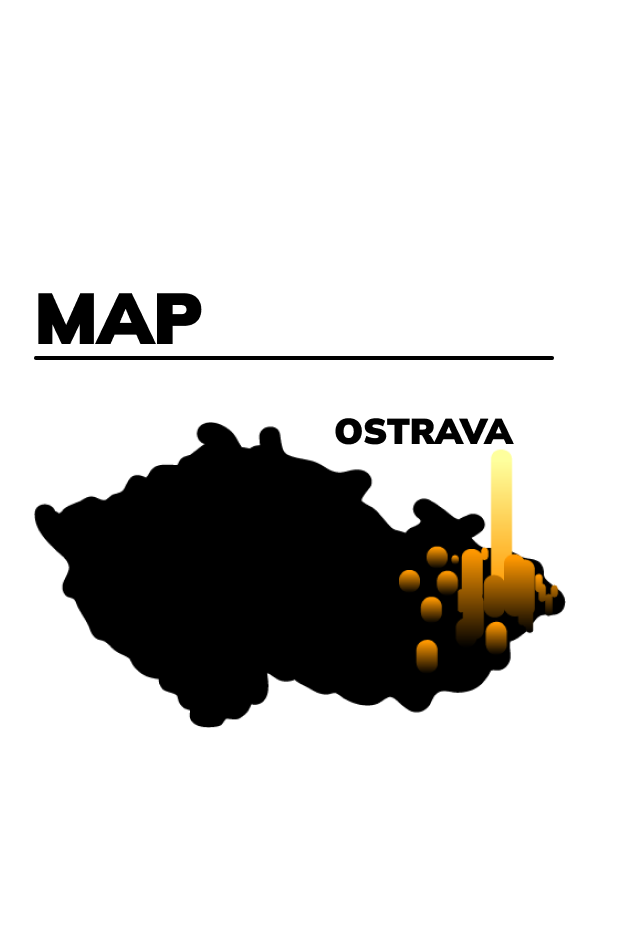
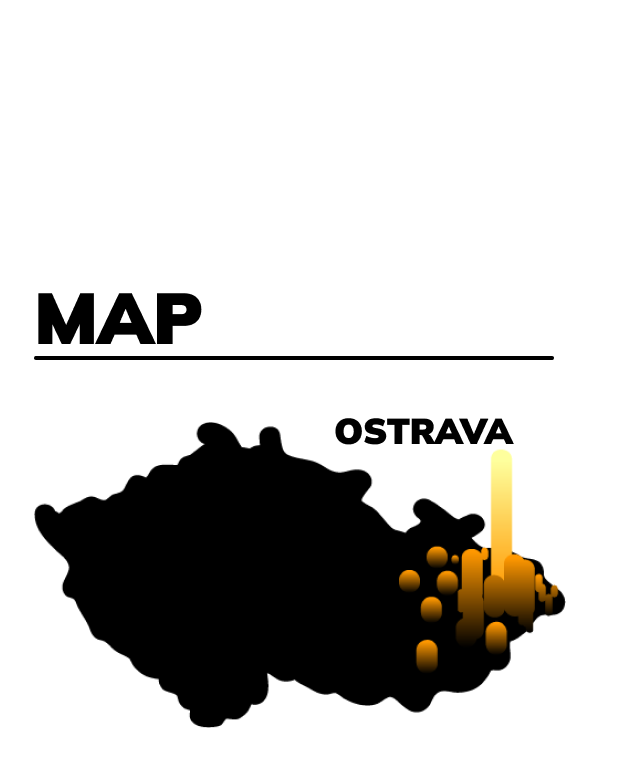
final commit

Changed region(s): [[0.0306, 0.3125, 0.9194, 0.9688]]

diff --git a/style.css b/style.css
@@ -2,9 +2,10 @@ body{
     font-family: 'Mulish', sans-serif;
     text-transform: uppercase;
     background: rgba(243, 203, 80, 1);
+    background-image: image();
 }
-#logo{height:25%;
-width:25%;}
+#logo{height:20%;
+width:20%;}
 .header{
     place-items:center;
    margin-top: 0,5cm;
@@ -47,23 +48,28 @@ text-align: center;
     width: 60%;
     height: 60%;
     left: 330px;
-    top: 260px;
+    top: 200px;
     display: none;
 }
+.title{position: absolute;
+    height: 400px;
+    left: 640px;
+    top: 790px;
+font-size: 250%;}
 .line{border: 17px solid #FFFFFF;
     position: absolute;
     width: 275px;
     height: 0px;
     left: 178.5px;
-    top: 450px;
+    top: 440px;
 border-radius: 20px;
 }
 .mask{  
     position: absolute;
     width: 325px;
-    height: 50%;
+    height: 400px;
     left: 180px;
-    top: 370px;
+    top: 350px;
     transition: all 0.75s;
 opacity:0%;}
 .mask:hover{
@@ -74,7 +80,7 @@ position: absolute;
 width: 275px;
 height: 0px;
 left: 1232px;
-top: 450px;
+top: 440px;
 border: 17px solid #FFFFFF;
 border-radius: 20px;}
 .linee{position: absolute;
@@ -96,7 +102,7 @@ border-radius: 20px;}
         width: 45%;
         height: 90%;
         left: 923px;
-        top: 2700px;}
+        top: 2600px;}
 .artist{   position: absolute;
     left: 770px;
     top: 1030px;
@@ -217,9 +223,9 @@ section {
 .blockb{
 position: absolute;
 width: 100%;
-height: 925px;
+height: 1000px;
 left: 0px;
-top: 2600px;
+top: 2500px;
 background: rgb(255, 255, 255);
 z-index:-1;
 }
@@ -260,13 +266,13 @@ p{position: absolute;
     width: 580px;
     height: 400px;
     left: 130px;
-    top: 3100px;}
+    top: 3000px;}
 .Ostrava{position: absolute;
     font-size:300%;
     left: 130px;
-    top: 2950px;}
+    top: 2850px;}
     .mostrear2 {position: absolute;
 width: 926px;
 height: 1417px;
 left: 100px;
-top: 2670px;}
+top: 2570px;}

diff --git a/index.html b/index.html
@@ -18,6 +18,7 @@
     <a href="">CONTACT</a>
 </header>
 <body onload="load_js()">
+        <h1 class="title">Colors<span style="color: white;font-weight: 100;">of</span>Ostrava</h1>
         <h1 class="date" style="font-weight: 500;">13-16<span style="color: white;">/</span>7<span style="color: white;">/</span>2022</h1>
         <img class="center" id="logo" src="full doc/logo B.png">
         <img class="gif" id="gif_img" src="full doc/output-onlinegiftools.gif" alt="logo anim"/>
